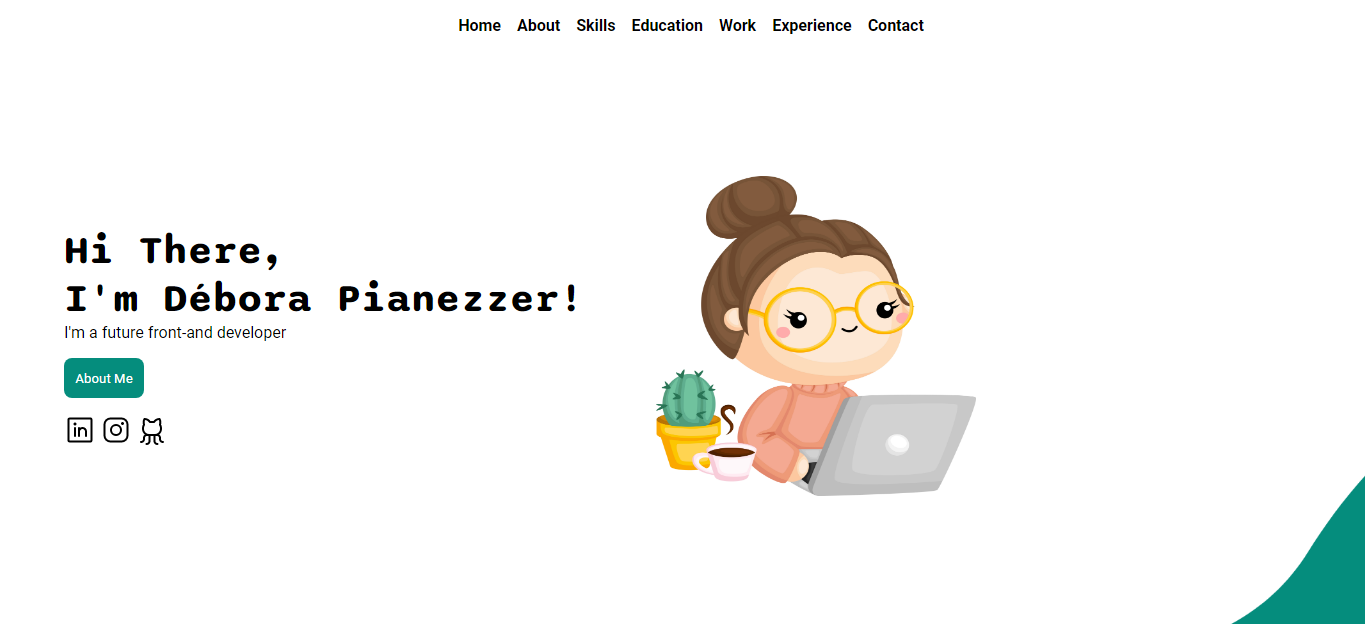
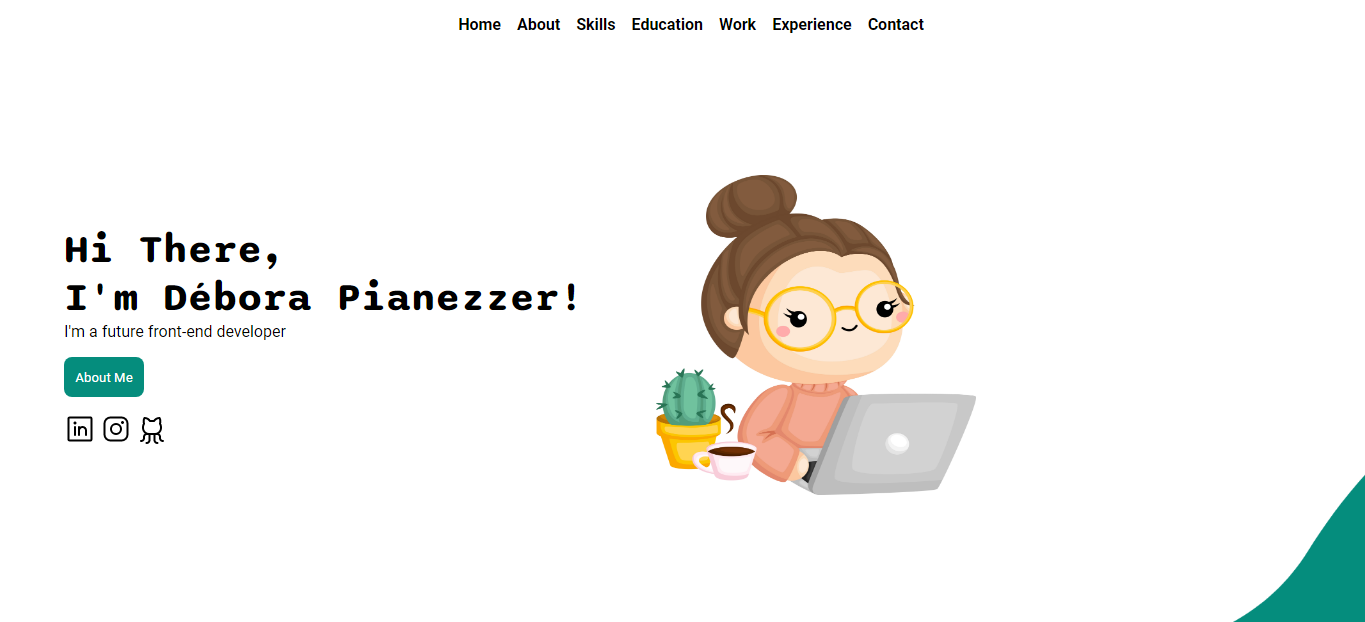
docs(read me): correcão no read me.

diff --git a/index.html b/index.html
@@ -36,7 +36,7 @@
         <h1>Hi There,<br>
           I'm Débora Pianezzer!
         </h1>
-        <p>I'm a future front-and developer </p>
+        <p>I'm a future front-end developer </p>
       </section>
       <section class="about-me">
         <button>About Me</button>
@@ -53,6 +53,6 @@
       </section>
     </div>
   </main>
-  
+  <script src="./main.js"></script>
 </body>
 </html>

diff --git a/main.js b/main.js
@@ -1,0 +1,3 @@
+window.alert('Minha primeira mensagem!')
+window.confirm('Está gostando da aula?')
+window.prompt('Qual o seu nome?')
